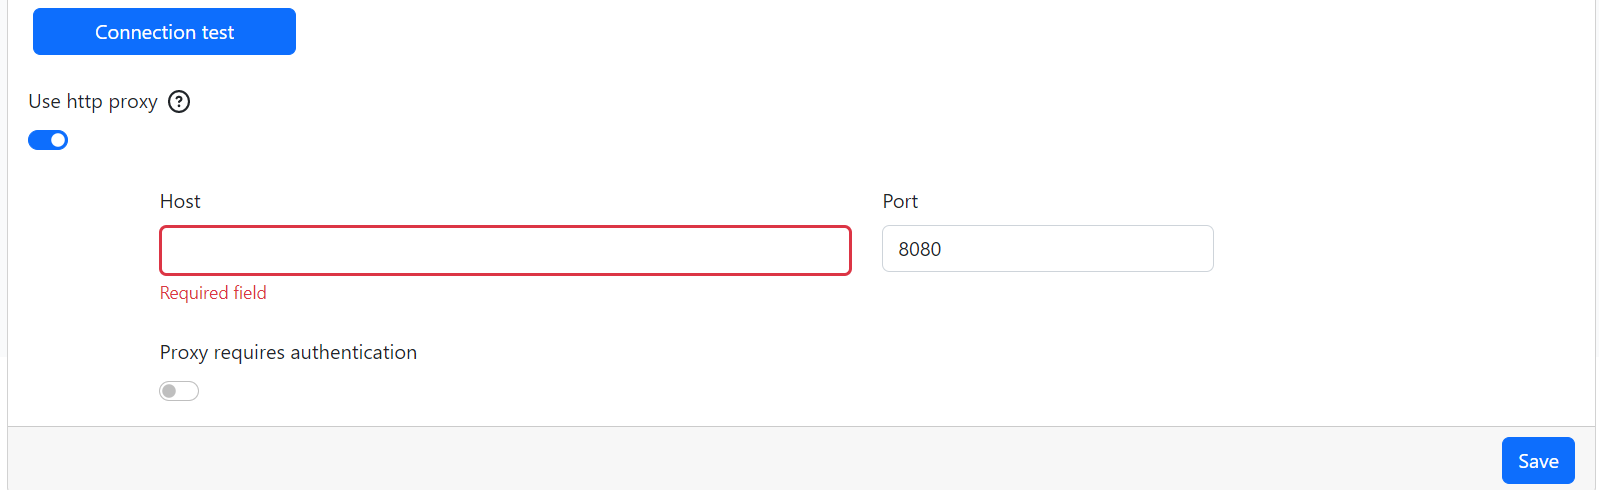
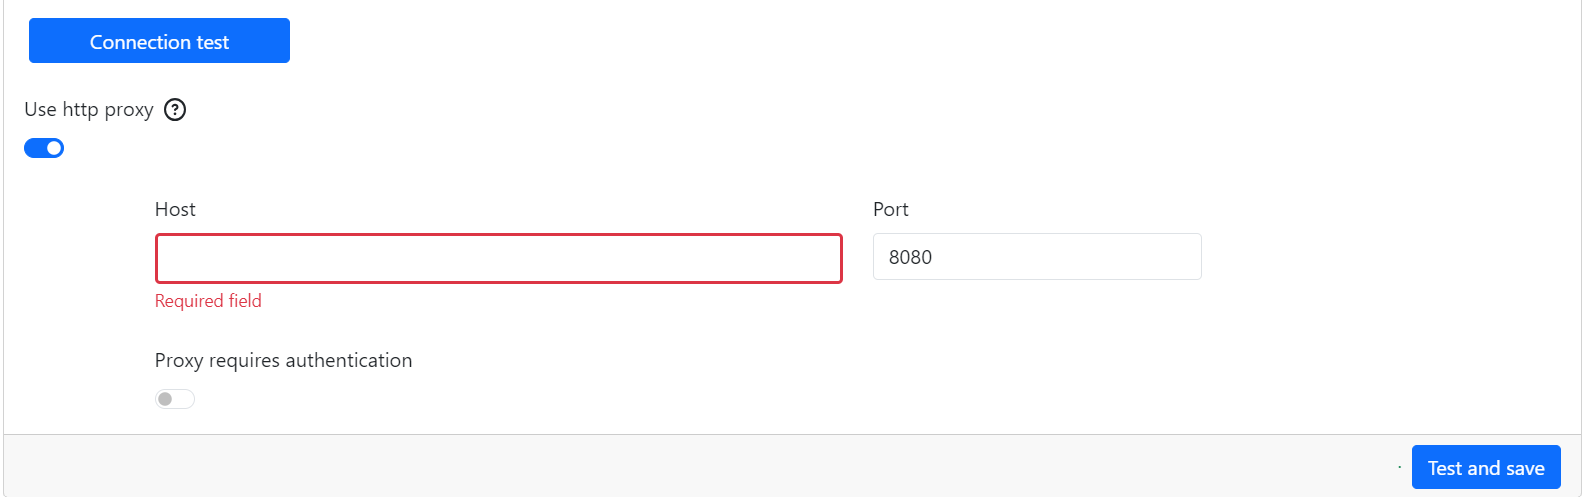
Updated the configuration to correspond to version 1.4

diff --git a/documentation/configuration/config-ui.md b/documentation/configuration/config-ui.md
@@ -11,11 +11,11 @@ Upon first connection to the configuration interface `<hostname>/config`, you wi
 
 ![Login Page](images/config-interface/login.png)
 
-first connect using the default setup account and update your password.  
+Connect using the default `setup` account and update your password.
 
-Once logged in you will be redirected to the configuration home page which displays all configuration sections and their warnings. Click on git section to go to the configuration page.
+Once logged in you will be redirected to the configuration home page which displays the configuration sections and warnings. Click on each section to go to the corresponding configuration page.  
 
-> [!warning] Do not forget to click on `Save` to make your changes effective. If you navigate to a new page before clicking save you will loose all applied configuration.  
+> [!warning] Do not forget to click on `Save` to make your changes effective. If you navigate to a new page before clicking save you will loose all applied configuration.
 
 We recommend to restart the service after each configuration section to isolate possible errors.
 
@@ -25,21 +25,21 @@ We recommend to restart the service after each configuration section to isolate 
 
 ### Change language
 
-You can change the language of the configuration interface by clicking on the language icon `fr` or `en` in the header menu.  
+You can change the language of the configuration interface by clicking on the language icon `fr` or `en` in the header menu.
 
 ### Restart services
 
-You can restart the services by clicking on the restart icon in the header menu.  
+You can restart the services by clicking on the restart icon in the header menu.
 
-This will restart the following services:  
+Please note that this action will only restart the following services, if you require to restart a service not in the following list a stop/start through the CLI is necessary:
 
-* `bwportal`
-* `bwdatabase`
-* `bwbrainwavedb`
-* `bwauth`
-* `bwcontroller`
+- `bwportal`
+- `bwdatabase`
+- `bwbrainwavedb`
+- `bwauth`
+- `bwcontroller`
 
-> [!note] The restart of the services can take a few minutes. Only modified services will be restarted.
+> The restart of the services can take a few minutes. Only modified services will be restarted.
 
 ### Logout
 
@@ -53,26 +53,28 @@ You can logout by clicking on the logout icon in the header menu.
 
 ![Home Page](images/config-interface/home.png)
 
-This screen shows all the configuration sections and their warnings. If configuration settings are missing or incorrect, an orange box and a warning sign will appear. When you click on a configuration section, you will be redirected to the configuration page of this section.  
+This screen shows all the configuration sections and configuration warnings. If some settings are missing or incorrect, an orange box and a warning sign will appear. It also provides you with links to each configuration section.  
 
-Please note that:  
+When you click on a configuration section, you will be redirected to the configuration page of this section.
 
-* You need to click on `Save` to make your changes effective.
-* You can't save an invalid configuration.
-* For most settings, a service restart is required to make your changes effective.
-* If a field is required or invalid, a red box and a warning will appear.
-* if a password is missing, an orange box will surround the field.
+Please note that:
+
+- You need to click on `Save` to make your changes effective.
+- You can't save an invalid configuration.
+- For most settings, a service restart is required to make your changes effective.
+- If a field is required or invalid, a red box and a warning will appear.
+- if a password is missing, an orange box will surround the field.
 
 ### Global
 
 ![Global Page](images/config-interface/global.png)
 
-* Domain name: The domain name of the server. It can only be changed through Identity Analytics CLI.  
-* Timezone: The timezone of the server.  
-* TLS enabled: Enable or disable TLS. If you activate TLS, you will have to provide a certificate and a key. Please refer to [SSL configuration page](/configuration/ssl-configuration) for more information.  
-* Debug mode enabled: Enable or disable debug mode. This will add some logs. It shouldn't be used in production.  
-* Batch memory: The max memory allocated to the batch.  
-* Portal memory: The max memory allocated to the portal.  
+- Domain name: The domain name of the server. It can **only** be changed through Identity Analytics CLI.
+- Timezone: The timezone of the server.
+- TLS enabled: Enable or disable TLS. If you activate TLS, you will have to provide a certificate and a key. Please refer to [SSL configuration page](ssl-configuration) for more information.
+- Debug mode enabled: Enable or disable debug mode. This will add some logs for all services except portal. It shouldn't be used in production. Please refer to the [debug installation page](../installation/preface/#debug-options) for more information on this specific deployment.  
+- Batch memory: The max memory allocated to the batch service.
+- Portal memory: The max memory allocated to the portal service.
 
 ### Database
 
@@ -80,22 +82,36 @@ Please note that:
 
 ![Database Internal Page](images/config-interface/db_internal.png)
 
-* Expose database: Expose the database port outside of the container.
-* Exposure port: The port used to expose the database.
-* Internal database password: The password of the database. Click on `Copy password` to copy the password in your clipboard.
+- Expose database: Expose the database port outside of the container.
+- Exposure port: The port used to expose the database.
+- Internal database password: The password of the database. Click on `Copy password` to copy the password in your clipboard.
 
 #### External
 
-![Database External Page](images/config-interface/db_external.png)
+![Database External Page 1](images/config-interface/db_external1.png)
 
-* Database driver: The driver used to connect to the database. Please note that if you are using another database than postgres, you will have to provide the JDBC driver.  
-* Hostname: The hostname of the database.
-* Port: The port of the database.
-* Database name: The name of the database.  
-* Microsoft SQL Server allows the configuration of **JDBC connection string options:** Those options will be added to the end of JDBC connection string. It could be used to set some ssl parameters for example.
-* Postgres allows the use of **auto init:**. If the database doesn't exist, it will be created.
-* Usernames: The usernames used to connect to your different schemas.
-* Passwords: The passwords used to connect to your different schemas.
+- Database driver: The driver used to connect to the database. Please note that if you are using another database than postgres, you will have to provide the JDBC driver.
+- Hostname: The hostname of the database.
+- Port: The port of the database.
+- Database name: The name of the database.
+- Microsoft SQL Server allows the configuration of **JDBC connection string options:** Those options will be added to the end of JDBC connection string. It can be used to set some ssl parameters for example.
+- Postgres allows the use of **auto init:**. If the database schema doesn't exist, it will be automatically created on startup of the system.
+
+> [!important] For production environments it is recommended to create the required database schemas using the scripts provided in the artifact repository.  
+
+- Reinitialize database: This button is only displayed the database was previously initialized. If you click on it, you will have to provide the passwords of the 3 schemas in order to reinitialize each one of them.  
+
+> [!warning] This option will delete all the data in your schemas. Use at your own risk.  
+
+![Database External Page 2](images/config-interface/db_external2.png)
+
+- Usernames: The usernames used to connect to your different schemas.
+- Passwords: The passwords used to connect to your different schemas.
+- Schema name: The specific namespace within the database where tables, views, and other objects reside.
+
+> When using a SQLserver database. The auditlog schema must be `igrc`, as a result it is not possible to change the value of this parameter.  
+
+- Connection test: This button will test a user's connection to the external database. In order to test the connection, it uses the username you provided in the configuration page and it asks you for a password. **The password you provide to test your connection isn't saved to your configuration!** Please note that the validity of the configured schemas name is not included in the test.
 
 ### Git project
 
@@ -103,13 +119,14 @@ Please note that:
 
 ![Git Project Page](images/config-interface/git.png)
 
-* Git project URL: The URL of the git project.
-* Branch: The branch of the git project.
-* Username: The username used to connect to the git project.
-* Password: The **access token** used to connect to the git project.
-* Project directory: the name of the project's directory on the **git repo**, for example `brainwave`:  
+- Git project URL: The URL of the git project.
+- Branch: The branch of the git project.
+- Username: The username used to connect to the git project.
+- Password: The **access token** used to connect to the git project.
+- Project directory: the name of the project's directory in the **git repository**, by default `brainwave`:  
   ![Project directory](images/config-interface/repository_project_folder_name.png)
-* Connection test: This button will test the connection to the specific branch of the git project with the provided credentials. It is highly recommended to test your connection before saving the configuration.
+- Connection test: This button will test the connection to the specific branch of the git project with the provided credentials. It is highly recommended to test your connection before saving the configuration.
+- Test and save: This button will test like the previous one and save the configuration if the test is conclusive. It ensures that a corrupted configuration is not saved.
 
 #### With proxy
 
@@ -117,12 +134,12 @@ Enabling this option will route Git traffic through an HTTP proxy. Useful if acc
 
 ![Git Project Page](images/config-interface/git_proxy.png)
 
-* Use http proxy: Enable or disable the use of http proxy.
-* Proxy host: The host of the proxy.
-* Proxy port: The port of the proxy.
-* Proxy requires authentication: Enable or disable the authentication to the proxy.
-* Proxy username: The username used to connect to the proxy.
-* Proxy password: The password used to connect to the proxy.
+- Use http proxy: Enable or disable the use of http proxy.
+- Proxy host: The host of the proxy.
+- Proxy port: The port of the proxy.
+- Proxy requires authentication: Enable or disable the authentication to the proxy.
+- Proxy username: The username used to connect to the proxy.
+- Proxy password: The password used to connect to the proxy.
 
 ### Mail
 
@@ -130,29 +147,29 @@ Enabling this option will route Git traffic through an HTTP proxy. Useful if acc
 
 ![SMTP Page](images/config-interface/smtp.png)
 
-* Enable email sending: Enable or disable the email sending.
-* SMTP Domain Name: The domain name of the SMTP server.
-* Port: The port of the SMTP server.
-* Use SMTP authentication: Enable or disable the SMTP authentication.
-* Username: The username used to connect to the SMTP server.
-* Password: The password used to connect to the SMTP server.
-* Sender email address: The email address used to send the emails.
-* Sender name: The name used to send the emails.
+- Enable email sending: Enable or disable the email sending.
+- SMTP Domain Name: The domain name of the SMTP server.
+- Port: The port of the SMTP server.
+- Use SMTP authentication: Enable or disable the SMTP authentication.
+- Username: The username used to connect to the SMTP server.
+- Password: The password used to connect to the SMTP server.
+- Sender email address: The email address used to send the emails.
+- Sender name: The name used to send the emails.
 
 #### Portal and Batch emails Settings
 
-* Send portal and batch emails: Enable or disable the email sending by the portal and the batch.
-* Redirect email to: The email address to where portal and batch the emails will be redirected.
-* Email subject prefix: The prefix of the email subject.
-* Recipients in attachment: Enable or disable the recipients in attachment. If false, the receiver will not know who received the email other than him.
-* Maximum number of emails per session: The maximum number of emails per session. If set to 0, there will be no limit.
-* Split size (in megabytes): The split size in megabytes. If the size of the email is greater than the split size, the email will be split in multiple emails. This Field has to be formatted like this `numberM`. e.g `10M`, `4M`, `16M`
+- Send portal and batch emails: Enable or disable the email sending by the portal and the batch.
+- Redirect email to: The email address to which portal and batch emails will be redirected.
+- Email subject prefix: The prefix of the email subject.
+- Recipients in attachment: Enable or disable the recipients in attachment. If false, the receiver will not know who received the email other than him.
+- Maximum number of emails per session: The maximum number of emails per session. If set to 0, there will be no limit.
+- Split size (in megabytes): The split size in megabytes. If the size of the email is greater than the split size, the email will be split in multiple emails. This Field has to be formatted like this `numberM`. e.g `10M`, `4M`, `16M`. The recommended value is `5M`.
 
 ### Batch
 
 ![Batch Page](images/config-interface/batch.png)
 
-* Technical configuration name: The name of the technical configuration used by the batch.
+- Technical configuration name: The name of the technical configuration used for the execution of the batch, the data ingestion.
 
 ### Scheduling
 
@@ -160,18 +177,39 @@ Enabling this option will route Git traffic through an HTTP proxy. Useful if acc
 
 #### Task automation settings
 
-Here you can configure the frequency when the tasks will be executed.
+Here, you have the ability to configure whether a task is repeatedly executed and the frequency of those executions.
 
-For each container (Batch, extraction and portal), you can configure the frequency on the left side of the box. On the right side of the box, you can see th corresponding cron expression.
+For each container (Batch, extraction and portal), you can configure the frequency on the left side of the box. On the right side of the box, you can see the corresponding cron expression. You can also choose to disable the task by clicking on the corresponding switch button.
 
-* Secure portal stop timeout (ms): When the portal is stopped, it closes securely by allowing time for ongoing tasks to complete. This parameter sets the waiting time before forcing the portal to stop.
+> It is recommended to spread out the different scheduling to avoid overlap of the different actions. This is important in the case data ingestion that can take time to complete.
+
+Secure portal stop timeout (ms): When the portal is stopped, it closes securely by allowing time for ongoing tasks to complete. This parameter sets the waiting time before forcing the portal to stop.
+
+### Identity Data Management
+
+![Identity Data Management Page](images/config-interface/identity_data_management.png)
+
+- Identity Data Management LDAP URL : The url of the LDAP server
+- Identity Data Management LDAP port : The port on which LDAP communication takes place
+- Ping test : This button allows us to check if we can establish a connection with the LDAP server using the url and port provided.
+- Identity Data Management LDAP username : The username used to connect to the LDAP server.
+- Identity Data Management LDAP password : The password used to connect to the LDAP server.
+- Authentication test : With this button we check if we can connect to the LDAP server with the provided information.
+
+> For this part of the configuration, The information are saved only if the corresponding test is successful.
+
+### Portal
+
+![Identity Data Management Page](images/config-interface/portal.png)
+
+- Enable portal debugging: Enable or disable debug mode in the portal. This provides the debug context within the pages. It isn't recommended for production environments.
 
 ## Uploads
 
 ![Uploads Page](images/config-interface/uploads.png)
 
-This page allows you to upload your Identity Analytics license file.
+This page allows you to upload your license file.
 
-> [!note] The license file has to contain `.lic` extension. (e.g. `brainwave.lic`)
+> The license file has to contain `.lic` extension. (e.g. `license.lic`)
 
-If a license file is already uploaded, you can delete it by clicking on the `Delete` button.  
+If a license file is already uploaded, you can delete it by clicking on the `Delete` button.
